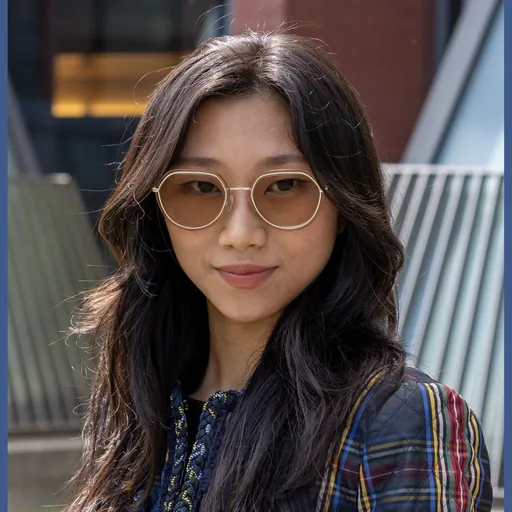
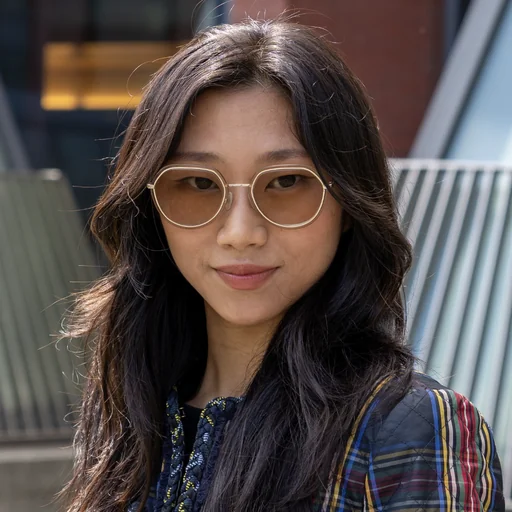
Trim the blue frame from the Executive Board headshots
The source portraits carry a thin blue frame; the old centre crop hid it on
the top and bottom but left a 6-9px strip down each side of every headshot.

- Add tools/make_headshots.py, which trims any flat-coloured frame from the
  source portraits, centre-crops to a square and writes the 512x512 WebPs
- Regenerate all 20 headshots from the original PNGs in git history (0ef33a2)
- Update the board page comment and README to describe the tool

Claude-Session: https://claude.ai/code/session_01BD5kLUzthF5iPqYAHGNvxZ

diff --git a/src/pages/exec-board.html b/src/pages/exec-board.html
@@ -13,8 +13,9 @@ description: Meet the 2026–2027 WUREC Executive Board — the students who run
   Headshots live in exec-board/pictures/, one file per member named after them
   (e.g. pictures/Josh Kwon.webp). To swap one, replace that file, or point the
   member's <img src> at a new name -- spaces must be escaped as %20. Each file
-  is a 512x512 WebP centre-cropped from the original PNG and shown as a square.
-  The full-resolution PNGs are in git history at commit 3cbca44.
+  is a 512x512 WebP made by tools/make_headshots.py, which trims the thin blue
+  frame the source portraits carry and centre-crops them to a square. The
+  full-resolution PNGs are in git history at commit 0ef33a2.
 
   Phone numbers are intentionally not published.
 -->

diff --git a/exec-board/index.html b/exec-board/index.html
@@ -36,8 +36,9 @@
   Headshots live in exec-board/pictures/, one file per member named after them
   (e.g. pictures/Josh Kwon.webp). To swap one, replace that file, or point the
   member's <img src> at a new name -- spaces must be escaped as %20. Each file
-  is a 512x512 WebP centre-cropped from the original PNG and shown as a square.
-  The full-resolution PNGs are in git history at commit 3cbca44.
+  is a 512x512 WebP made by tools/make_headshots.py, which trims the thin blue
+  frame the source portraits carry and centre-crops them to a square. The
+  full-resolution PNGs are in git history at commit 0ef33a2.
 
   Phone numbers are intentionally not published.
 -->

diff --git a/tools/make_headshots.py b/tools/make_headshots.py
@@ -1,0 +1,107 @@
+#!/usr/bin/env python3
+"""Make the Executive Board headshots in exec-board/pictures/.
+
+Usage:
+    python3 tools/make_headshots.py SOURCE_DIR [--size 512] [--quality 85] [--dry-run]
+
+Reads every .png / .jpg / .jpeg / .webp in SOURCE_DIR, trims any flat-coloured
+frame along the edges (the source portraits carry a thin blue border on the
+left and right), centre-crops to a square, resizes to SIZE x SIZE and writes
+<same name>.webp into exec-board/pictures/. Needs Pillow:
+
+    python3 -m pip install pillow
+
+The original PNGs are not kept in the working tree; they are in git history
+(commit 0ef33a2, exec-board/pictures/*.png). To re-run on them:
+
+    git archive 0ef33a2 exec-board/pictures | tar -x -C /tmp/headshots
+    python3 tools/make_headshots.py /tmp/headshots/exec-board/pictures
+"""
+import argparse
+import pathlib
+import sys
+
+try:
+    from PIL import Image, ImageStat
+except ImportError:  # pragma: no cover
+    sys.exit("Pillow is required: python3 -m pip install pillow")
+
+ROOT = pathlib.Path(__file__).resolve().parent.parent
+OUT = ROOT / "exec-board" / "pictures"
+SOURCES = {".png", ".jpg", ".jpeg", ".webp"}
+
+# A frame is a run of edge rows/columns that are (a) almost one colour and
+# (b) the same colour as the outermost row/column. It is never wider than
+# MAX_FRAME of the image, so a flat studio backdrop can only lose a sliver.
+MAX_FRAME = 0.04
+FLAT_STDDEV = 10
+COLOUR_TOLERANCE = 24
+SAFETY_MARGIN = 0.01  # extra trim so no anti-aliased edge of the frame survives
+
+
+def edge_line(img, side, i):
+    w, h = img.size
+    if side == "left":
+        box = (i, 0, i + 1, h)
+    elif side == "right":
+        box = (w - 1 - i, 0, w - i, h)
+    elif side == "top":
+        box = (0, i, w, i + 1)
+    else:
+        box = (0, h - 1 - i, w, h - i)
+    return ImageStat.Stat(img.crop(box))
+
+
+def frame_width(img, side):
+    """Number of flat, edge-coloured rows/columns on `side`."""
+    w, h = img.size
+    limit = int((w if side in ("left", "right") else h) * MAX_FRAME)
+    edge = edge_line(img, side, 0).mean
+    n = 0
+    for i in range(limit):
+        stat = edge_line(img, side, i)
+        if max(stat.stddev) > FLAT_STDDEV:
+            break
+        if max(abs(a - b) for a, b in zip(stat.mean, edge)) > COLOUR_TOLERANCE:
+            break
+        n += 1
+    return n
+
+
+def process(src, size, quality, dry_run):
+    img = Image.open(src).convert("RGB")
+    w, h = img.size
+    frame = {side: frame_width(img, side) for side in ("left", "right", "top", "bottom")}
+    margin = max(2, round(w * SAFETY_MARGIN))
+    trim = {side: (n + margin if n else 0) for side, n in frame.items()}
+    img = img.crop((trim["left"], trim["top"], w - trim["right"], h - trim["bottom"]))
+    cw, ch = img.size
+    side = min(cw, ch)
+    left, top = (cw - side) // 2, (ch - side) // 2
+    img = img.crop((left, top, left + side, top + side)).resize((size, size), Image.LANCZOS)
+    out = OUT / (src.stem + ".webp")
+    if not dry_run:
+        img.save(out, "WEBP", quality=quality, method=6)
+    frame_note = ", ".join(f"{s} {n}px" for s, n in frame.items() if n) or "none"
+    print(f"{'would write' if dry_run else 'wrote'} {out.relative_to(ROOT)}  "
+          f"({w}x{h}, frame: {frame_note}, square {side}px)")
+
+
+def main():
+    parser = argparse.ArgumentParser(description=__doc__.split("\n\n")[0])
+    parser.add_argument("source", type=pathlib.Path, help="directory of source portraits")
+    parser.add_argument("--size", type=int, default=512, help="output width/height in px (default 512)")
+    parser.add_argument("--quality", type=int, default=85, help="WebP quality 0-100 (default 85)")
+    parser.add_argument("--dry-run", action="store_true", help="report the crops without writing files")
+    args = parser.parse_args()
+    files = sorted(p for p in args.source.iterdir() if p.suffix.lower() in SOURCES)
+    if not files:
+        sys.exit(f"no images found in {args.source}")
+    OUT.mkdir(parents=True, exist_ok=True)
+    for src in files:
+        process(src, args.size, args.quality, args.dry_run)
+    print(f"{len(files)} headshots {'checked' if args.dry_run else 'written'}")
+
+
+if __name__ == "__main__":
+    main()

diff --git a/README.md b/README.md
@@ -33,6 +33,7 @@ assets/img/carousel/ home-page carousel slides, generated from carousel/
 carousel/            original photos for the home-page carousel
 tools/build.py       renders src/pages/* into the root as <slug>/index.html
 tools/make_carousel.py  resizes carousel/ photos into assets/img/carousel/
+tools/make_headshots.py trims and squares board portraits into exec-board/pictures/
 ```
 
 1. Edit a page in `src/pages/` (or the nav list at the top of `tools/build.py`).
@@ -72,8 +73,10 @@ the placeholders below with the club's own material:
   `<img src>` paths in `src/pages/`.
 - **Executive Board** (`src/pages/exec-board.html`) — the 2026–27 roster and
   headshots are current. Headshots live in `exec-board/pictures/` as square
-  512×512 WebPs and are shown as squares; the comment at the top of the page
-  explains how to swap one.
+  512×512 WebPs. To add or replace one, put the portrait in a folder and run
+  `python3 tools/make_headshots.py <folder>` (needs Pillow); it trims any
+  flat-coloured frame, centre-crops to a square and writes the WebP. The
+  comment at the top of the page explains the file naming.
 - **Site title font** — the WUREC wordmark in the header and footer is set in
   Centaur, which is bundled with Microsoft Office but is not a free web font.
   Visitors without it see Cormorant Garamond (Google Fonts) instead. To show
